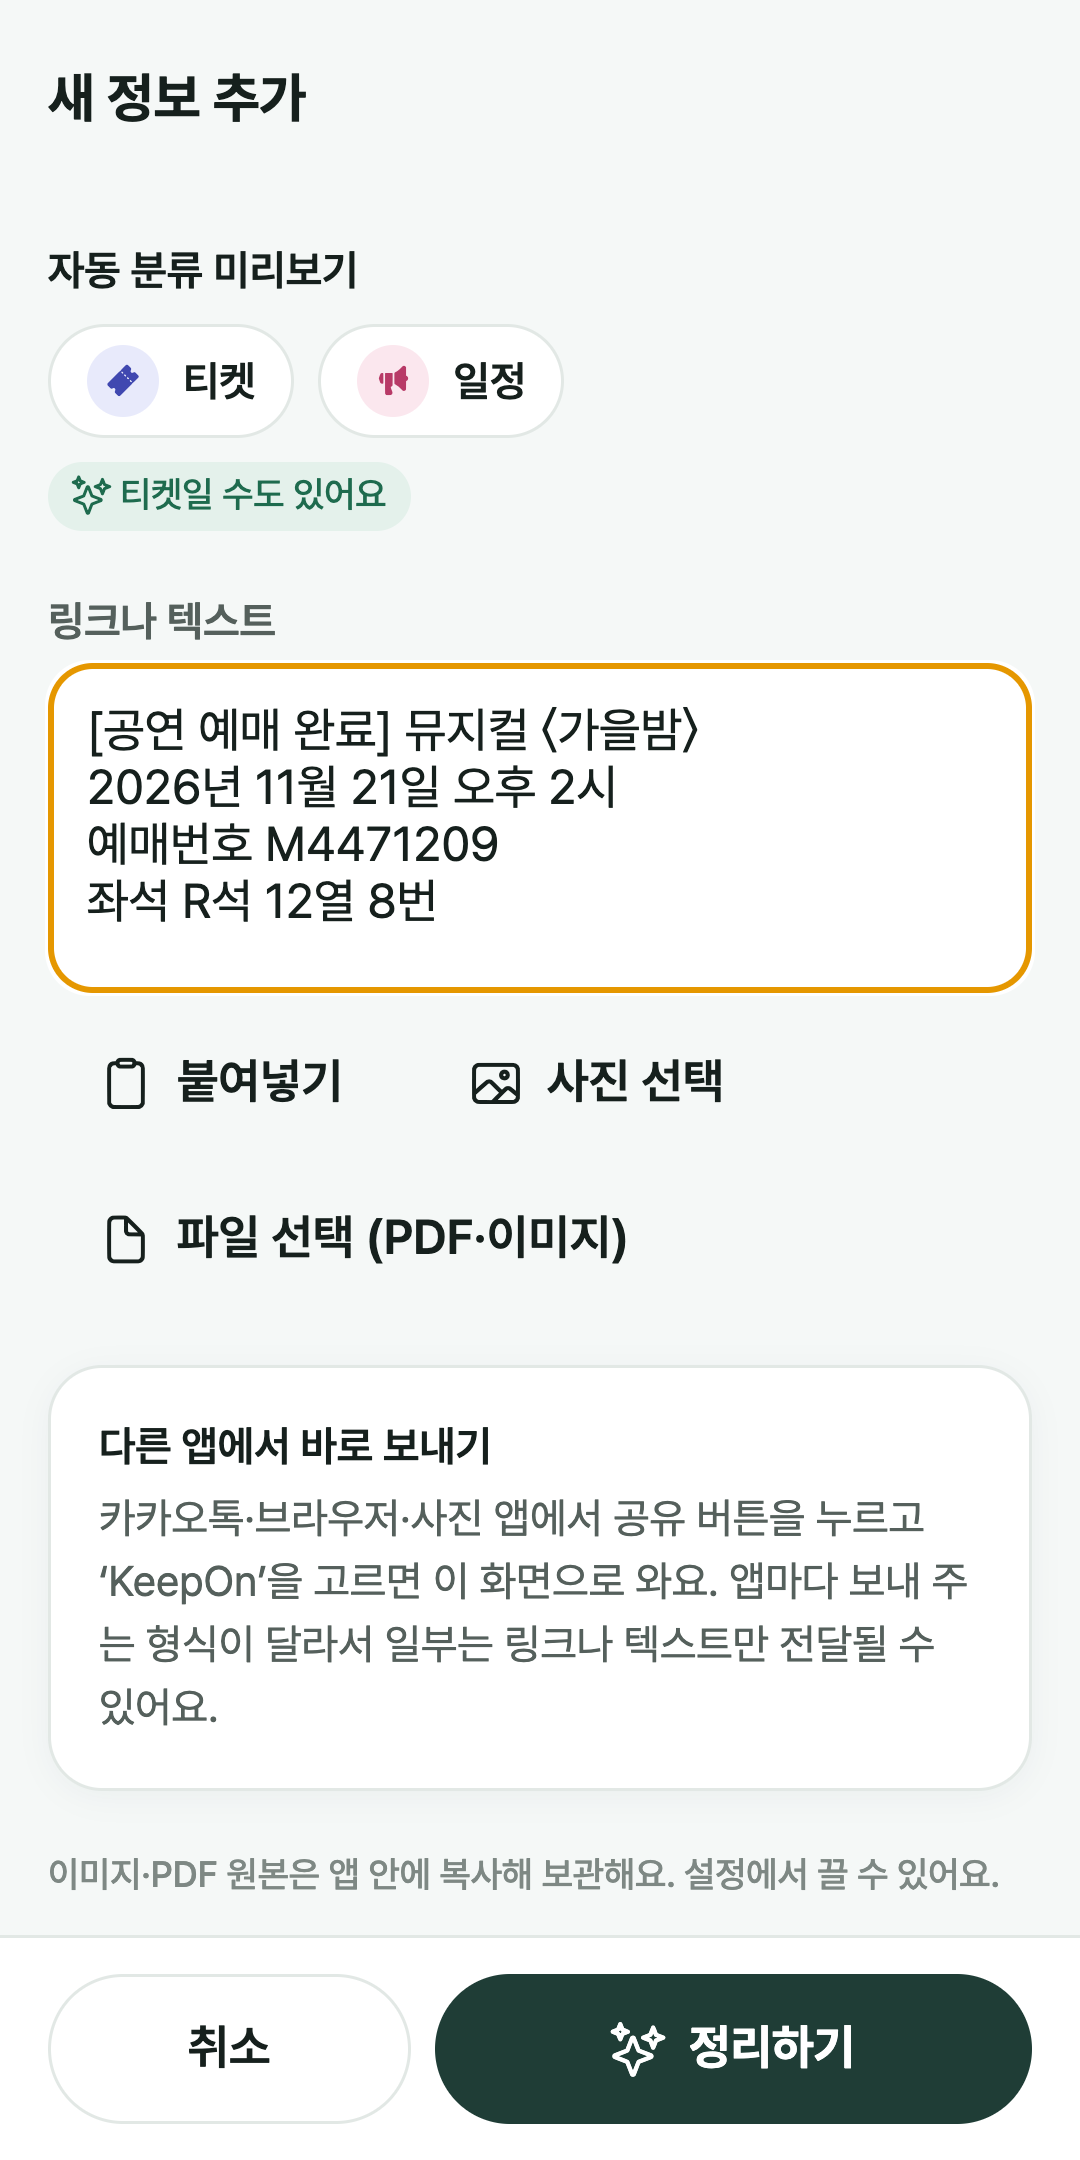
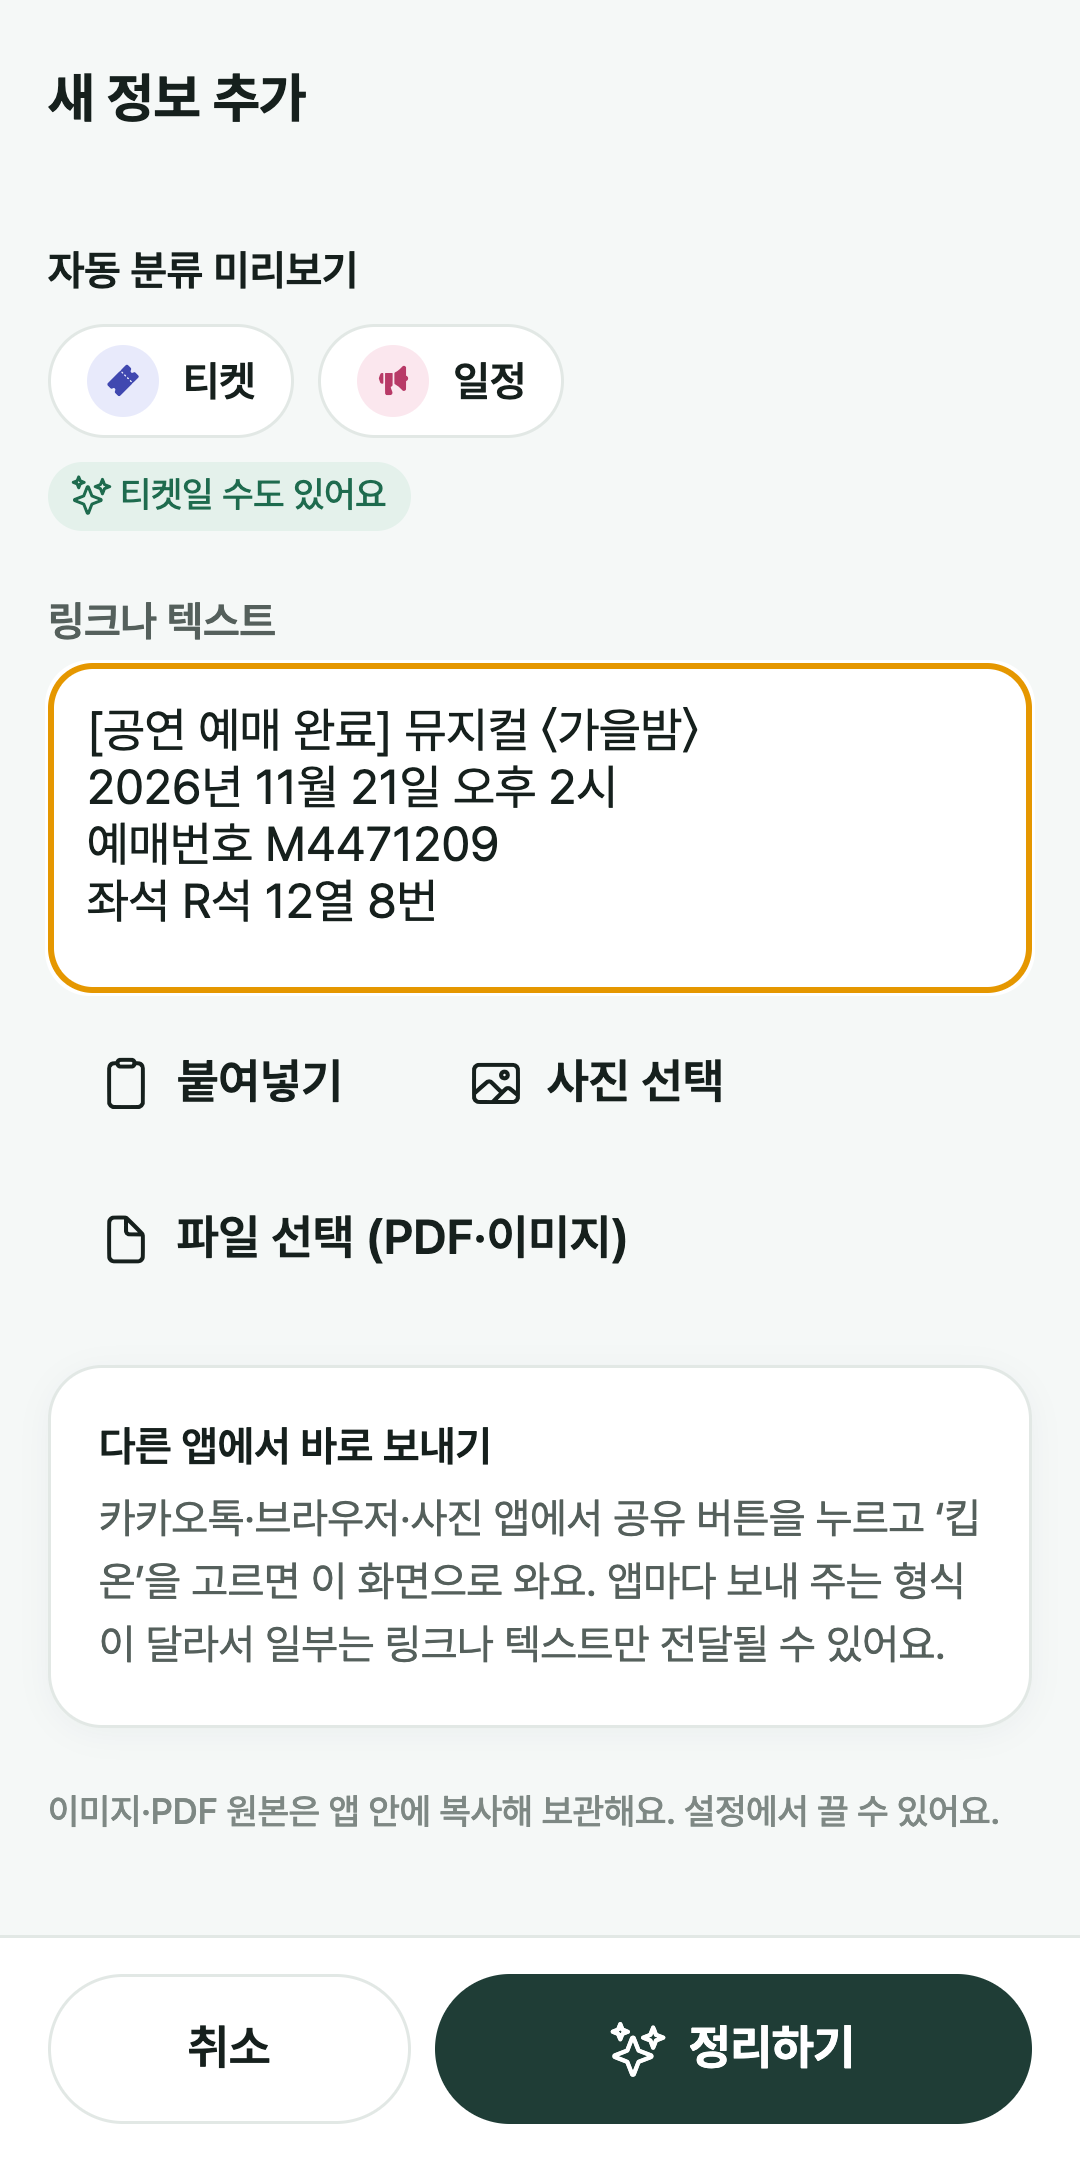
feat(brand): 표시 이름을 "킵온"으로 통일, 저장소 이름 KeepOn 반영
- 기기 표시 이름·BRAND_NAME·앱 안 문구를 "킵온"으로 (영문 KeepOn은 보조 표기)
- 스토어 표시명 "킵온(KeepOn) - 링크·쿠폰·예약 정보함", 설명·테스트 문구·처리방침·소개 페이지
- 피처 그래픽(킵온 + KeepOn), 스크린샷 7장 다시 촬영
- 저장소 이름 변경에 맞춰 GitHub Pages·저장소 주소를 /KeepOn/으로 갱신 (extra.privacyPolicyUrl 포함)
- D-020, README·체크리스트·브랜드 문서 갱신

검증: tsc·expo lint 통과, jest 127/127.

Changed region(s): [[0.0917, 0.6824, 0.9167, 0.8065], [0.0306, 0.8065, 0.6111, 0.8995], [0.6417, 0.8065, 0.9167, 0.8995]]

diff --git a/docs/store/site/privacy-policy.html b/docs/store/site/privacy-policy.html
@@ -3,7 +3,7 @@
 <head>
 <meta charset="utf-8">
 <meta name="viewport" content="width=device-width, initial-scale=1">
-<title>KeepOn(킵온) 개인정보 처리방침</title>
+<title>킵온(KeepOn) 개인정보 처리방침</title>
 <style>
 :root { --bg:#ffffff; --fg:#1c2421; --muted:#5b6662; --line:#dfe5e2; --accent:#2F5BD3; }
 @media (prefers-color-scheme: dark) { :root { --bg:#0e1311; --fg:#e8eeeb; --muted:#a3ada9; --line:#2a3330; --accent:#8fa8ff; } }
@@ -16,9 +16,9 @@ a { color:var(--accent); } hr { border:0; border-top:1px solid var(--line); marg
 </style>
 </head>
 <body><main>
-<h1>KeepOn(킵온) 개인정보 처리방침</h1>
+<h1>킵온(KeepOn) 개인정보 처리방침</h1>
 <p>시행일: 2026년 10월 26일</p>
-<p>임채명(이하 "개발자")은 Android 앱 「KeepOn(킵온)」(이하 "앱")을 이용하는 분의 개인정보를 소중히 다루며, 「개인정보 보호법」 등 관련 법령을 지킵니다. 이 처리방침은 앱이 어떤 정보를 어떻게 다루는지 설명합니다.</p>
+<p>임채명(이하 "개발자")은 Android 앱 「킵온(KeepOn)」(이하 "앱")을 이용하는 분의 개인정보를 소중히 다루며, 「개인정보 보호법」 등 관련 법령을 지킵니다. 이 처리방침은 앱이 어떤 정보를 어떻게 다루는지 설명합니다.</p>
 <h2>1. 개발자가 수집하는 개인정보</h2>
 <p>개발자는 앱을 통해 <strong>어떠한 개인정보도 수집하거나 전송받지 않습니다.</strong>
 - 회원가입·로그인 기능이 없습니다.
@@ -132,6 +132,6 @@ a { color:var(--accent); } hr { border:0; border-top:1px solid var(--line); marg
 <hr />
 <h2>Privacy Policy (English summary)</h2>
 <p>Effective: October 26, 2026</p>
-<p>KeepOn does not collect, transmit or share any personal data. There is no account, no server, and no analytics, advertising or crash-reporting SDK, and the advertising ID is not used. Content you share into the app or add yourself (links, text, images, PDFs) and the dates, amounts and codes found in it are stored only on your device, unencrypted, protected by the operating system's app sandbox, until you delete them or uninstall the app. If Android device backup is on, app data may be included in your own Google account backup, which the developer cannot access. Links open in your browser only when you tap them; exports go only to the app you choose. Permissions: notifications (requested when you create your first reminder), run at startup (restore scheduled reminders), vibration. Photos are read only through the system photo picker. Contact: dlacoaud96@gmail.com.</p>
+<p>KeepOn (킵온) does not collect, transmit or share any personal data. There is no account, no server, and no analytics, advertising or crash-reporting SDK, and the advertising ID is not used. Content you share into the app or add yourself (links, text, images, PDFs) and the dates, amounts and codes found in it are stored only on your device, unencrypted, protected by the operating system's app sandbox, until you delete them or uninstall the app. If Android device backup is on, app data may be included in your own Google account backup, which the developer cannot access. Links open in your browser only when you tap them; exports go only to the app you choose. Permissions: notifications (requested when you create your first reminder), run at startup (restore scheduled reminders), vibration. Photos are read only through the system photo picker. Contact: dlacoaud96@gmail.com.</p>
 </main></body>
 </html>

diff --git a/src/app/(tabs)/me.tsx b/src/app/(tabs)/me.tsx
@@ -37,7 +37,7 @@ export default function MeScreen() {
           <Ionicons name="person" size={28} color={c.accentText} />
         </View>
         <View style={{ flex: 1 }}>
-          <AppText variant="sectionTitle">내 KeepOn</AppText>
+          <AppText variant="sectionTitle">내 킵온</AppText>
           <AppText variant="caption" tone="tertiary">로그인 없이 이 기기에만 저장 중이에요</AppText>
         </View>
         <BrandMark size={30} />
@@ -64,7 +64,7 @@ export default function MeScreen() {
         {SUPPORT_EMAIL ? (
           <>
             <Divider inset={spacing.md} />
-            <ListRow icon="mail-outline" label="문의하기" value={SUPPORT_EMAIL} role="button" onPress={() => Linking.openURL(`mailto:${SUPPORT_EMAIL}?subject=${encodeURIComponent(`[KeepOn ${APP_VERSION}] 문의`)}`).catch(() => {})} />
+            <ListRow icon="mail-outline" label="문의하기" value={SUPPORT_EMAIL} role="button" onPress={() => Linking.openURL(`mailto:${SUPPORT_EMAIL}?subject=${encodeURIComponent(`[킵온 ${APP_VERSION}] 문의`)}`).catch(() => {})} />
           </>
         ) : null}
       </Card>
@@ -73,13 +73,13 @@ export default function MeScreen() {
         <View style={{ gap: spacing.xxs }}>
           <AppText variant="label">도움말</AppText>
           <AppText variant="secondary" tone="secondary">
-            다른 앱에서 공유 버튼 → ‘KeepOn’을 고르세요. 처음에는 목록 끝의 ‘더보기’ 안에 있을 수 있어요.
+            다른 앱에서 공유 버튼 → ‘킵온’을 고르세요. 처음에는 목록 끝의 ‘더보기’ 안에 있을 수 있어요.
           </AppText>
         </View>
       </Card>
 
       <AppText variant="caption" tone="tertiary" align="center">
-        KeepOn {APP_VERSION} · 이미지 글자 인식 {currentOcrProviderId() === 'unavailable' ? '준비 중' : currentOcrProviderId()}
+        킵온 {APP_VERSION} · 이미지 글자 인식 {currentOcrProviderId() === 'unavailable' ? '준비 중' : currentOcrProviderId()}
       </AppText>
     </ScreenScroll>
   );

diff --git a/docs/store/site/index.html b/docs/store/site/index.html
@@ -3,7 +3,7 @@
 <head>
 <meta charset="utf-8">
 <meta name="viewport" content="width=device-width, initial-scale=1">
-<title>KeepOn(킵온) — 저장한 정보, 놓치지 않게</title>
+<title>킵온(KeepOn) — 저장한 정보, 놓치지 않게</title>
 <meta name="description" content="공유 메뉴로 보낸 링크·쿠폰·예약 정보를 모아 두고, 확인한 날짜로 알림을 받는 개인용 정보함.">
 <link rel="icon" href="icon.png">
 <style>
@@ -25,7 +25,7 @@ footer { margin-top:3rem; color:var(--muted); font-size:.9rem; }
 <header>
   <img src="icon.png" alt="">
   <div>
-    <h1>KeepOn <small style="font-size:.55em;color:var(--muted);font-weight:600">킵온</small></h1>
+    <h1>킵온 <small style="font-size:.55em;color:var(--muted);font-weight:600">KeepOn</small></h1>
     <p class="tag">저장한 정보, 놓치지 않게.</p>
   </div>
 </header>
@@ -42,7 +42,7 @@ footer { margin-top:3rem; color:var(--muted); font-size:.9rem; }
 </div>
 
 <h2>자주 묻는 질문</h2>
-<p><strong>공유 메뉴에 KeepOn이 안 보여요.</strong><br>처음에는 공유 목록 끝의 ‘더보기’ 안에 있을 수 있어요. 한 번 쓰고 나면 앞쪽에 보이는 경우가 많아요.</p>
+<p><strong>공유 메뉴에 킵온이 안 보여요.</strong><br>처음에는 공유 목록 끝의 ‘더보기’ 안에 있을 수 있어요. 한 번 쓰고 나면 앞쪽에 보이는 경우가 많아요.</p>
 <p><strong>이미지 속 글자도 읽나요?</strong><br>아직은 지원하지 않아요. 이미지는 그대로 저장되고, 제목과 날짜는 직접 입력할 수 있어요.</p>
 <p><strong>알림이 늦게 와요.</strong><br>방해 금지·절전 모드에 따라 알림이 늦거나 오지 않을 수 있어요. 앱의 알림 탭에서 다가오는 기한을 항상 확인할 수 있어요.</p>
 <p><strong>휴대폰을 바꾸면 데이터는요?</strong><br>설정 &gt; 내보내기로 JSON 파일을 만든 뒤 새 기기에서 가져오기 하세요. 이미지·PDF 첨부는 내보내기에 포함되지 않아요.</p>

diff --git a/src/domain/errors.ts b/src/domain/errors.ts
@@ -25,13 +25,13 @@ const MESSAGES: Record<AppErrorCode, string> = {
   'file-type-mismatch': '파일 내용이 확장자와 달라요. 다른 파일을 선택해 주세요.',
   'ocr-unavailable': '이 기기에서는 아직 글자 인식을 사용할 수 없어요. 제목과 날짜를 직접 입력해 저장할 수 있어요.',
   'ocr-failed': '글자를 읽지 못했어요. 다시 시도하거나 직접 입력해 주세요.',
-  'permission-denied': '권한이 거부됐어요. 기기 설정 > KeepOn에서 권한을 허용할 수 있어요.',
+  'permission-denied': '권한이 거부됐어요. 기기 설정 > 킵온에서 권한을 허용할 수 있어요.',
   'notification-denied': '알림 권한이 꺼져 있어요. 기한은 앱의 알림 탭에서 계속 확인할 수 있어요.',
   'notification-failed': '알림을 예약하지 못했어요. 기한은 앱의 알림 탭에서 확인할 수 있어요.',
   'reminder-limit': '예약된 알림이 너무 많아요. 지난 알림을 정리한 뒤 다시 시도해 주세요.',
   'storage-failed': '기기 저장 공간에 쓰지 못했어요. 저장 공간을 확인한 뒤 다시 시도해 주세요.',
   'db-failed': '로컬 데이터베이스를 열지 못했어요. 앱을 다시 시작해 주세요.',
-  'import-invalid': '가져올 파일 형식이 올바르지 않아요. KeepOn에서 내보낸 JSON 파일인지 확인해 주세요.',
+  'import-invalid': '가져올 파일 형식이 올바르지 않아요. 킵온에서 내보낸 JSON 파일인지 확인해 주세요.',
   validation: '입력값을 확인해 주세요.',
   unknown: '알 수 없는 문제가 생겼어요. 다시 시도해 주세요.',
 };

diff --git a/src/app/(tabs)/index.tsx b/src/app/(tabs)/index.tsx
@@ -82,7 +82,7 @@ export default function HomeScreen() {
         </Pressable>
       </View>
 
-      <AppText variant="screenTitle" accessibilityRole="header">필요한 정보,{'\n'}놓치지 않게 KeepOn.</AppText>
+      <AppText variant="screenTitle" accessibilityRole="header">필요한 정보,{'\n'}놓치지 않게 킵온.</AppText>
 
       <Pressable
         onPress={() => router.push('/search')}
@@ -127,7 +127,7 @@ export default function HomeScreen() {
       {ready && data && !items.length ? (
         <EmptyState
           title="아직 저장한 정보가 없어요"
-          message="카카오톡·브라우저·갤러리의 공유 메뉴에서 'KeepOn'을 고르거나(목록에 없으면 '더보기'), 링크·텍스트를 직접 추가해 보세요."
+          message="카카오톡·브라우저·갤러리의 공유 메뉴에서 '킵온'을 고르거나(목록에 없으면 '더보기'), 링크·텍스트를 직접 추가해 보세요."
           actionLabel="직접 추가하기"
           onAction={() => router.push('/capture')}
         />

diff --git a/src/app/privacy.tsx b/src/app/privacy.tsx
@@ -9,7 +9,7 @@ const POLICY_EFFECTIVE_DATE = '2026년 10월 26일';
 const SECTIONS: { title: string; body: string }[] = [
   {
     title: '1. 수집하는 개인정보',
-    body: 'KeepOn은 개발자나 서버로 어떤 개인정보도 수집·전송하지 않아요. 로그인·회원가입이 없고, 분석·광고·크래시 리포트 도구도 쓰지 않아요.',
+    body: '킵온은 개발자나 서버로 어떤 개인정보도 수집·전송하지 않아요. 로그인·회원가입이 없고, 분석·광고·크래시 리포트 도구도 쓰지 않아요.',
   },
   {
     title: '2. 기기 안에서 처리하는 정보',
@@ -33,7 +33,7 @@ const SECTIONS: { title: string; body: string }[] = [
   },
   {
     title: '7. 아동',
-    body: 'KeepOn은 아동을 대상으로 하지 않으며, 아동의 개인정보를 따로 수집하지 않아요.',
+    body: '킵온은 아동을 대상으로 하지 않으며, 아동의 개인정보를 따로 수집하지 않아요.',
   },
   {
     title: '8. 변경',

diff --git a/src/app/capture/index.tsx b/src/app/capture/index.tsx
@@ -173,7 +173,7 @@ export default function CaptureScreen() {
         <Card>
           <View style={{ gap: spacing.xxs }}>
             <AppText variant="label">다른 앱에서 바로 보내기</AppText>
-            <AppText variant="secondary" tone="secondary">카카오톡·브라우저·사진 앱에서 공유 버튼을 누르고 ‘KeepOn’을 고르면 이 화면으로 와요. 앱마다 보내 주는 형식이 달라서 일부는 링크나 텍스트만 전달될 수 있어요.</AppText>
+            <AppText variant="secondary" tone="secondary">카카오톡·브라우저·사진 앱에서 공유 버튼을 누르고 ‘킵온’을 고르면 이 화면으로 와요. 앱마다 보내 주는 형식이 달라서 일부는 링크나 텍스트만 전달될 수 있어요.</AppText>
           </View>
         </Card>
         <AppText variant="caption" tone="tertiary">

diff --git a/src/features/export-import/archive-format.ts b/src/features/export-import/archive-format.ts
@@ -38,7 +38,7 @@ export function validateArchive(data: unknown): string[] {
   const errors: string[] = [];
   if (typeof data !== 'object' || data === null) return ['JSON 객체가 아니에요.'];
   const a = data as Record<string, unknown>;
-  if (a.format !== ARCHIVE_FORMAT) errors.push('KeepOn 내보내기 파일이 아니에요.');
+  if (a.format !== ARCHIVE_FORMAT) errors.push('킵온 내보내기 파일이 아니에요.');
   if (a.schemaVersion !== ARCHIVE_SCHEMA_VERSION) errors.push(`지원하지 않는 버전이에요 (${String(a.schemaVersion)}).`);
   if (!Array.isArray(a.items)) return [...errors, '항목 목록이 없어요.'];
   if (a.items.length > MAX_IMPORT_ITEMS) errors.push(`항목이 너무 많아요 (최대 ${MAX_IMPORT_ITEMS}개).`);

diff --git a/src/app/onboarding.tsx b/src/app/onboarding.tsx
@@ -6,7 +6,7 @@ import { AppText, BRAND_NAME, BRAND_TAGLINE, BrandMark, PrimaryButton, fonts, sp
 import { useAppState } from '@/hooks/app-state';
 
 const POINTS = [
-  { title: '공유하면 모여요', body: '카카오톡·브라우저·갤러리의 공유 메뉴에서 ‘KeepOn’을 고르세요.' },
+  { title: '공유하면 모여요', body: '카카오톡·브라우저·갤러리의 공유 메뉴에서 ‘킵온’을 고르세요.' },
   { title: '날짜·금액은 후보로', body: '기기 안의 규칙으로 찾아 보여 드리고, 직접 확인한 값만 알림에 써요.' },
   { title: '기기 안에만 저장', body: '로그인·서버 없이 동작해요. 앱이 사진첩이나 대화를 스스로 읽지 않아요.' },
 ];

diff --git a/src/app/licenses.tsx b/src/app/licenses.tsx
@@ -50,7 +50,7 @@ function NoticeRow({ notice }: { notice: Notice }) {
 export default function LicensesScreen() {
   return (
     <ScreenScroll>
-      <AppText variant="secondary" tone="secondary">KeepOn은 아래 오픈소스 소프트웨어를 사용해요. 항목을 누르면 저작권 표시와 라이선스 전문을 볼 수 있어요.</AppText>
+      <AppText variant="secondary" tone="secondary">킵온은 아래 오픈소스 소프트웨어를 사용해요. 항목을 누르면 저작권 표시와 라이선스 전문을 볼 수 있어요.</AppText>
       <Card padded={false}>
         {PACKAGES.map((p, i) => (
           <View key={`${p.name}@${p.version}`}>

diff --git a/src/features/export-import/export-service.ts b/src/features/export-import/export-service.ts
@@ -34,7 +34,7 @@ export async function exportToShareSheet(): Promise<number> {
   const uri = writeCacheText(`ddalggak-export-${toYmd(new Date())}.json`, JSON.stringify(archive, null, 1));
   if (process.env.EXPO_OS !== 'web') {
     if (!(await Sharing.isAvailableAsync())) throw new AppError('unknown', '이 기기에서는 공유 시트를 열 수 없어요.');
-    await Sharing.shareAsync(uri, { mimeType: 'application/json', dialogTitle: 'KeepOn 데이터 내보내기' });
+    await Sharing.shareAsync(uri, { mimeType: 'application/json', dialogTitle: '킵온 데이터 내보내기' });
   }
   return archive.items.length;
 }

diff --git a/src/app/(tabs)/reminders.tsx b/src/app/(tabs)/reminders.tsx
@@ -53,7 +53,7 @@ export default function RemindersScreen() {
         <InlineMessage
           tone="warning"
           title="알림 권한이 꺼져 있어요"
-          message="아래 일정은 앱 안에서만 보여요. 기기 알림을 받으려면 설정에서 KeepOn 알림을 허용해 주세요."
+          message="아래 일정은 앱 안에서만 보여요. 기기 알림을 받으려면 설정에서 킵온 알림을 허용해 주세요."
           action={<GhostButton compact label="기기 설정 열기" onPress={() => Linking.openSettings().catch(() => {})} />}
         />
       ) : null}
